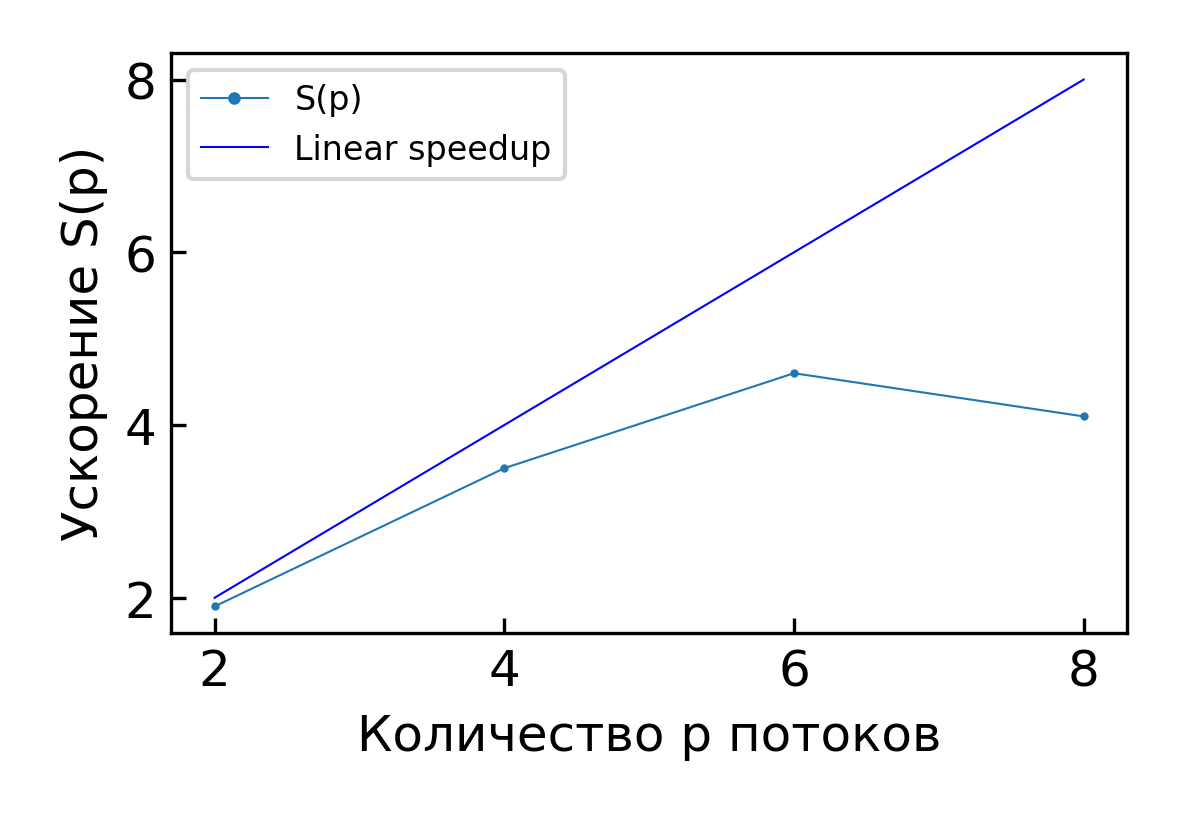
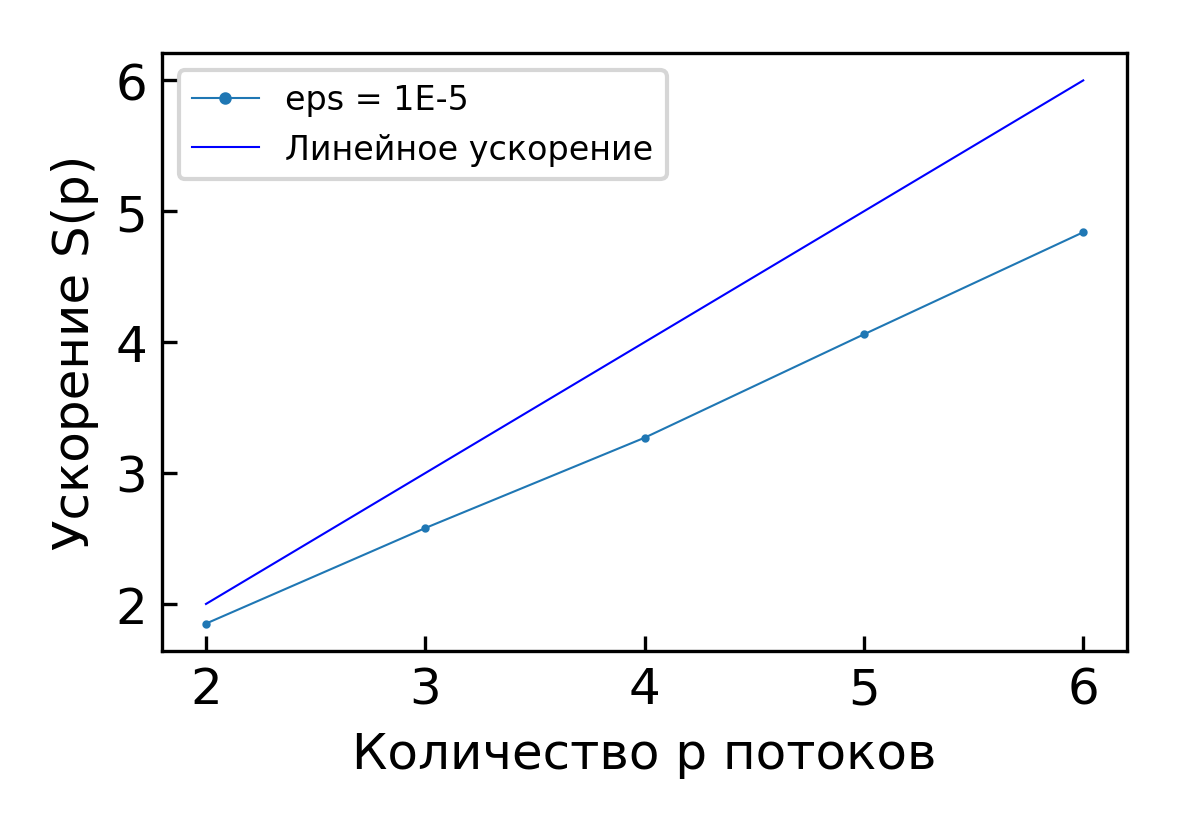
midpoint

diff --git a/pct-lab-3/midpoint/draw.py b/pct-lab-3/midpoint/draw.py
@@ -35,7 +35,7 @@ def draw(filenames, labels):
         #ax.plot(x,y,'-o',markersize=1,c="green")
         ax.plot(x,y,'-o',markersize=1,linewidth=0.5,label=datalabel)
         #x.bar(x, y);
-    ax.plot(range(2,9),range(2,9),'-',c="blue",linewidth=0.5,label="Linear speedup")
+    ax.plot(range(2,7),range(2,7),'-',c="blue",linewidth=0.5,label="Линейное ускорение")
 
     plt.tight_layout()
     ax.legend()
@@ -43,4 +43,4 @@ def draw(filenames, labels):
     #fig.savefig('chart.pdf', dpi=300)
 
 if __name__ == "__main__":
-    draw(["midpoint.dat"], ["S(p)"])
+    draw(["midpoint.dat"], ["eps = 1E-5"])
